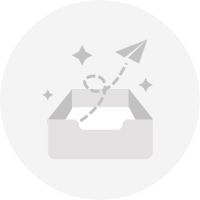
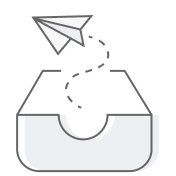
change no project empty tip

Changed region(s): [[0.0852, 0.1989, 0.8807, 0.9943], [0.1705, 0.0852, 0.5398, 0.3409]]

diff --git a/frontend/src/home/workspace/body/workspace-container.js b/frontend/src/home/workspace/body/workspace-container.js
@@ -3,11 +3,64 @@ import PropTypes from 'prop-types';
 import classnames from 'classnames';
 import Project from './project';
 import VirtualProject from './virtual-project';
-import { gettext } from '../../../constants';
 
-import './index.css';
+import './workspace-container.css';
 
-const propTypes = {
+class WorkspaceContainer extends Component {
+
+  render() {
+    const { isDesktop, isOwner, isAdmin, isItemFreezed, getProjectClassAndStyle, projectList } = this.props;
+    const total = projectList.length;
+    const { className: virtualClassName, style: virtualStyle } = getProjectClassAndStyle(total, total);
+    return (
+      <div className={classnames('project-group-content d-flex', {
+        'project-item-container': isDesktop,
+        'table-mobile-item-container': !isDesktop,
+      })}
+      >
+        {projectList.map((project, index) => {
+          const { className, style } = getProjectClassAndStyle(index, total);
+          return (
+            <Project
+              className={className}
+              style={style}
+              key={index}
+              project={project}
+              isItemFreezed={isItemFreezed}
+              isOwner={isOwner}
+              isAdmin={isAdmin}
+              workspace={this.props.workspace}
+              onAPITokenToggle={this.props.onAPITokenToggle}
+              onSetPasswordToggle={this.props.onSetPasswordToggle}
+              onUnsetPasswordToggle={this.props.onUnsetPasswordToggle}
+              onModifyPasswordToggle={this.props.onModifyPasswordToggle}
+              onDeleteProjectToggle={this.props.onDeleteProjectToggle}
+              onCopyProjectToggle={this.props.onCopyProjectToggle}
+              onUpdateProject={this.props.onUpdateProject}
+              onMobileUpdateProjectToggle={this.props.onMobileUpdateProjectToggle}
+              onFreezedItem={this.props.onFreezedItem}
+              onUnfreezedItem={this.props.onUnfreezedItem}
+              setDropdownState={this.props.setDropdownState}
+              getDropdownState={this.props.getDropdownState}
+            />
+          );
+        })}
+        {this.props.isShowVirtualProject && (
+          <VirtualProject
+            className={virtualClassName}
+            style={virtualStyle}
+            currentWorkspace={this.props.workspace}
+            createBlankProject={this.props.createBlankProject}
+            hideVirtualProject={this.props.hideVirtualProject}
+            getProjectClassAndStyle={this.props.getProjectClassAndStyle}
+          />
+        )}
+      </div>
+    );
+  }
+}
+
+WorkspaceContainer.propTypes = {
   workspace: PropTypes.object,
   isDesktop: PropTypes.bool,
   isOwnerOrAdmin: PropTypes.bool,
@@ -35,7 +88,6 @@ const propTypes = {
   onDeleteProjectToggle: PropTypes.func,
   onAPITokenToggle: PropTypes.func,
   onCopyProjectToggle: PropTypes.func,
-  onAddProject: PropTypes.func,
   onUpdateProject: PropTypes.func,
   onMobileUpdateProjectToggle: PropTypes.func,
   createBlankProject: PropTypes.func,
@@ -43,65 +95,5 @@ const propTypes = {
   getDropdownState: PropTypes.func,
   onCopyProject: PropTypes.func,
 };
-
-class WorkspaceContainer extends Component {
-
-  render() {
-    const { isDesktop, isOwner, isAdmin, isItemFreezed, getProjectClassAndStyle, projectList } = this.props;
-    const total = projectList.length;
-    const { className: virtualClassName, style: virtualStyle } = getProjectClassAndStyle(total, total);
-    return (
-      <div className={classnames('project-group-content d-flex', {
-        'project-item-container': isDesktop,
-        'table-mobile-item-container': !isDesktop,
-      })}
-      >
-        {total === 0 && !this.props.isShowVirtualProject && (
-          <div className="tip">{gettext('No projects')}</div>
-        )}
-        {projectList.map((project, index) => {
-          const { className, style } = getProjectClassAndStyle(index, total);
-          return (
-            <Project
-              className={className}
-              style={style}
-              key={index}
-              project={project}
-              isItemFreezed={isItemFreezed}
-              isOwner={isOwner}
-              isAdmin={isAdmin}
-              workspace={this.props.workspace}
-              onAPITokenToggle={this.props.onAPITokenToggle}
-              onSetPasswordToggle={this.props.onSetPasswordToggle}
-              onUnsetPasswordToggle={this.props.onUnsetPasswordToggle}
-              onModifyPasswordToggle={this.props.onModifyPasswordToggle}
-              onDeleteProjectToggle={this.props.onDeleteProjectToggle}
-              onCopyProjectToggle={this.props.onCopyProjectToggle}
-              onAddProject={this.props.onAddProject}
-              onUpdateProject={this.props.onUpdateProject}
-              onMobileUpdateProjectToggle={this.props.onMobileUpdateProjectToggle}
-              onFreezedItem={this.props.onFreezedItem}
-              onUnfreezedItem={this.props.onUnfreezedItem}
-              setDropdownState={this.props.setDropdownState}
-              getDropdownState={this.props.getDropdownState}
-            />
-          );
-        })}
-        {this.props.isShowVirtualProject && (
-          <VirtualProject
-            className={virtualClassName}
-            style={virtualStyle}
-            currentWorkspace={this.props.workspace}
-            createBlankProject={this.props.createBlankProject}
-            hideVirtualProject={this.props.hideVirtualProject}
-            getProjectClassAndStyle={this.props.getProjectClassAndStyle}
-          />
-        )}
-      </div>
-    );
-  }
-}
-
-WorkspaceContainer.propTypes = propTypes;
 
 export default WorkspaceContainer;

diff --git a/frontend/src/home/workspace/index.js b/frontend/src/home/workspace/index.js
@@ -1,6 +1,7 @@
 import React, { Fragment } from 'react';
 import PropTypes from 'prop-types';
-import { toaster, Loading, CommonOperationConfirmationDialog } from '@/components';
+import { Button } from 'reactstrap';
+import { EmptyTip, toaster, Loading, CommonOperationConfirmationDialog } from '@/components';
 import homeAPI from '../api';
 import ManageMembersDialog from '../dialog/manage-members-dialog';
 import RenameGroupNameDialog from '../dialog/rename-group-name-dialog';
@@ -11,12 +12,14 @@ import WorkspaceMemberDialog from '../dialog/workspace-member-dialog';
 import TransferGroupDialog from '../dialog/transfer-group-dialog';
 import ModalPortal from '@/components/modal-portal';
 import RenameProjectView from '../mobile/rename-project-view';
-import Header from './header';
-import Body from './body';
+import WorkspaceHeader from './workspace-header';
+import WorkspaceContainer from './body/workspace-container';
 import LeaveGroupDialog from '../dialog/leave-group-dialog';
 import GroupTrashDialog from '../dialog/group-trash-dialog';
 import ProjectAPITokenDialog from '../../components/dialog/project-api-token-dialog';
 import eventBus from '@/utils/event-bus';
+
+import './workspace-add.css';
 
 const gettext = window.gettext;
 const username = window.app.pageOptions.username;
@@ -400,8 +403,28 @@ class Workspace extends React.Component {
   };
 
   renderEmpty = () => {
-    if (this.state.projectList.length === 0) {
-      return this.props.emptyTip || '';
+    const { page } = this.props;
+    const { projectItemWidth, projectList, isShowVirtualProject } = this.state;
+    if (projectList.length === 0 && !isShowVirtualProject) {
+      if (page === 'workspace-in-main-panel') {
+        return (
+          <EmptyTip
+            title={gettext('No projects')}
+            text={gettext('Add a project to track issues')}
+          >
+            <Button color="primary" onClick={this.showVirtualProject} className='mt-5'>
+              {gettext('Add project')}
+            </Button>
+          </EmptyTip>
+        );
+      } else if (page === 'all-workspaces') {
+        return (
+          <div className="empty-project-card" onClick={this.showVirtualProject} style={{ width: projectItemWidth }}>
+            <div className="empty-project-card-icon">+</div>
+            <p className="empty-project-card-text">{gettext('Add a project to track issues')}</p>
+          </div>
+        );
+      }
     }
   };
 
@@ -418,7 +441,7 @@ class Workspace extends React.Component {
     return (
       <Fragment>
         <div className="workspace project-group-container" ref={ref => this.curViewContent = ref}>
-          <Header
+          <WorkspaceHeader
             workspace={workspace}
             isDesktop={this.isDesktop}
             isOwnerOrAdmin={isOwnerOrAdmin}
@@ -436,7 +459,7 @@ class Workspace extends React.Component {
             toggleGroupTrashDialog={this.toggleGroupTrashDialog}
             showVirtualProject={this.showVirtualProject}
           />
-          <Body
+          <WorkspaceContainer
             isDesktop={this.isDesktop}
             isOwnerOrAdmin={isOwnerOrAdmin}
             isPersonal={isPersonal}

diff --git a/frontend/src/components/empty-tip/index.jsx b/frontend/src/components/empty-tip/index.jsx
@@ -1,18 +1,15 @@
 import React from 'react';
 import PropTypes from 'prop-types';
-
 import './index.css';
 
-const {
-  mediaUrl
-} = window.app.config;
+const { mediaUrl } = window.app.config;
 
 const EmptyTip = ({ text, title, type, src, children }) => {
   return (
     <div className="empty-tip">
-      <img src={src || `${mediaUrl}img/no-items-tip.png`} alt="" width="100" height="100" className="no-items-img-tip" />
+      <img src={src || `${mediaUrl}img/no-items-tip.png`} alt="" width="88" height="88" className="no-items-img-tip" />
       {title && <span className="empty-tip-title">{title}</span>}
-      {text && <span className="empty-tip-text" style={{ color: type === 'error' ? 'red' : '#666' }}>{text}</span>}
+      {text && <span className="empty-tip-text" style={{ color: type === 'error' ? 'red' : '#999' }}>{text}</span>}
       {children}
     </div>
   );

diff --git a/frontend/src/home/main-panel/pc-main-panel/workspace-in-main-panel/index.js b/frontend/src/home/main-panel/pc-main-panel/workspace-in-main-panel/index.js
@@ -1,11 +1,9 @@
 import React, { Fragment } from 'react';
 import PropTypes from 'prop-types';
-import { EmptyTip, Loading } from '@/components';
-import { isOrgContext, orgName, mediaUrl } from '@/constants';
+import { Loading } from '@/components';
+import { isOrgContext, orgName } from '@/constants';
 import Workspace from '../../../workspace';
 import { Utils } from '@/utils/utils';
-
-const gettext = window.gettext;
 
 class WorkspaceInMainPanel extends React.Component {
 
@@ -39,9 +37,7 @@ class WorkspaceInMainPanel extends React.Component {
         onCopyProject={onCopyProject}
         onAddProject={onAddProject}
         loadWorkspaceList={this.props.loadWorkspaceList}
-        emptyTip={
-          <EmptyTip text={gettext('No projects')} src={`${mediaUrl}img/no-items-tip.png`} />
-        }
+        page="workspace-in-main-panel"
       />
     );
   };

diff --git a/frontend/src/home/main-panel/pc-main-panel/all-workspaces/index.js b/frontend/src/home/main-panel/pc-main-panel/all-workspaces/index.js
@@ -97,6 +97,7 @@ class AllWorkspaces extends React.Component {
                       onDeleteProject={onDeleteProject}
                       onAddProject={onAddProject}
                       loadWorkspaceList={this.props.loadWorkspaceList}
+                      page="all-workspaces"
                     />
                   }
                   {groupWorkspaceList.length > 0 && groupWorkspaceList.map((workspace, index) => {
@@ -110,6 +111,7 @@ class AllWorkspaces extends React.Component {
                         onCopyProject={onCopyProject}
                         onAddProject={onAddProject}
                         loadWorkspaceList={this.props.loadWorkspaceList}
+                        page="all-workspaces"
                       />
                     );
                   })}

diff --git a/frontend/src/home/workspace/workspace-add.css b/frontend/src/home/workspace/workspace-add.css
@@ -1,0 +1,35 @@
+.empty-project-card {
+  padding: 48px 20px 20px;
+  border: 1.5px dashed rgba(0, 40, 100, 0.12);
+  border-radius: 8px;
+  display: flex;
+  flex-direction: column;
+  align-items: center;
+  gap: 24px;
+  cursor: pointer;
+  min-height: 160px;
+}
+
+.empty-project-card:hover {
+  background-color: rgba(0, 0, 0, 0.04);
+}
+
+.empty-project-card .empty-project-card-icon {
+  width: 24px;
+  height: 24px;
+  display: flex;
+  align-items: center;
+  justify-content: center;
+  color: var(--bs-icon-secondary-color);
+  font-size: 48px;
+  font-weight: 300;
+  line-height: 1;
+}
+
+.empty-project-card .empty-project-card-text {
+  color: var(--bs-icon-color);
+  font-size: 12px;
+  line-height: 18px;
+  margin: 0;
+  text-align: center;
+}

diff --git a/frontend/src/sea-metadata/components/formatter/index.js b/frontend/src/sea-metadata/components/formatter/index.js
@@ -17,10 +17,13 @@ import TagFormatter from '../cell-formatter/tag';
 import TypeFormatter from '../cell-formatter/type';
 import PriorityFormatter from '../cell-formatter/priority';
 import LinkFormat from '../cell-formatter/link';
-import Empty from './empty';
 import { CellType } from '../../constants';
 
 import './index.css';
+
+const Empty = ({ type, placeholder }) => {
+  return <span className={`sea-metadata-row-cell-empty sea-metadata-row-${type}-cell-empty`} placeholder={placeholder}></span>;
+};
 
 const Formatter = ({ column, value, isSample, queryUserAPI, emptyTip, onClick, row, ...params }) => {
   const { type: columnType } = column || {};

diff --git a/frontend/src/components/empty-tip/index.css b/frontend/src/components/empty-tip/index.css
@@ -7,15 +7,16 @@
 }
 
 .empty-tip .empty-tip-title {
-  font-size: 18px;
-  font-weight: 500;
+  font-size: 16px;
   color: #212529;
-  margin-top: 10px;
+  line-height: 22px;
+  margin-top: 24px;
 }
 
 .empty-tip .empty-tip-text {
   font-size: 14px;
   font-weight: normal;
-  color: #666;
-  margin-top: 10px;
+  color: #999;
+  margin-top: 8px;
+  line-height: 22px;
 }

diff --git a/frontend/src/css/layout.css b/frontend/src/css/layout.css
@@ -120,7 +120,7 @@
 }
 
 .cur-view-content {
-  padding: 0rem 1.5rem;
+  padding: 0rem 1.5rem 2rem;
   flex: 1;
   min-height: 0;
   overflow: auto;
